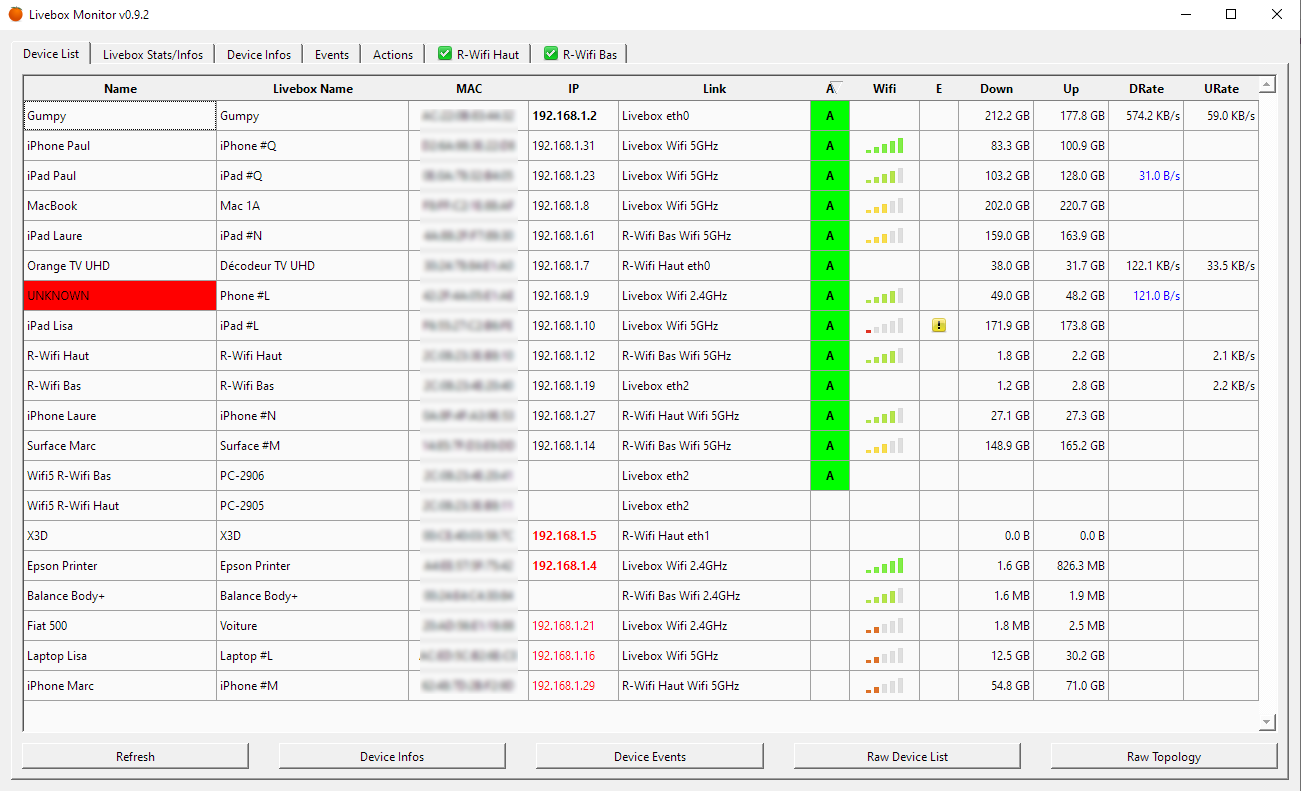
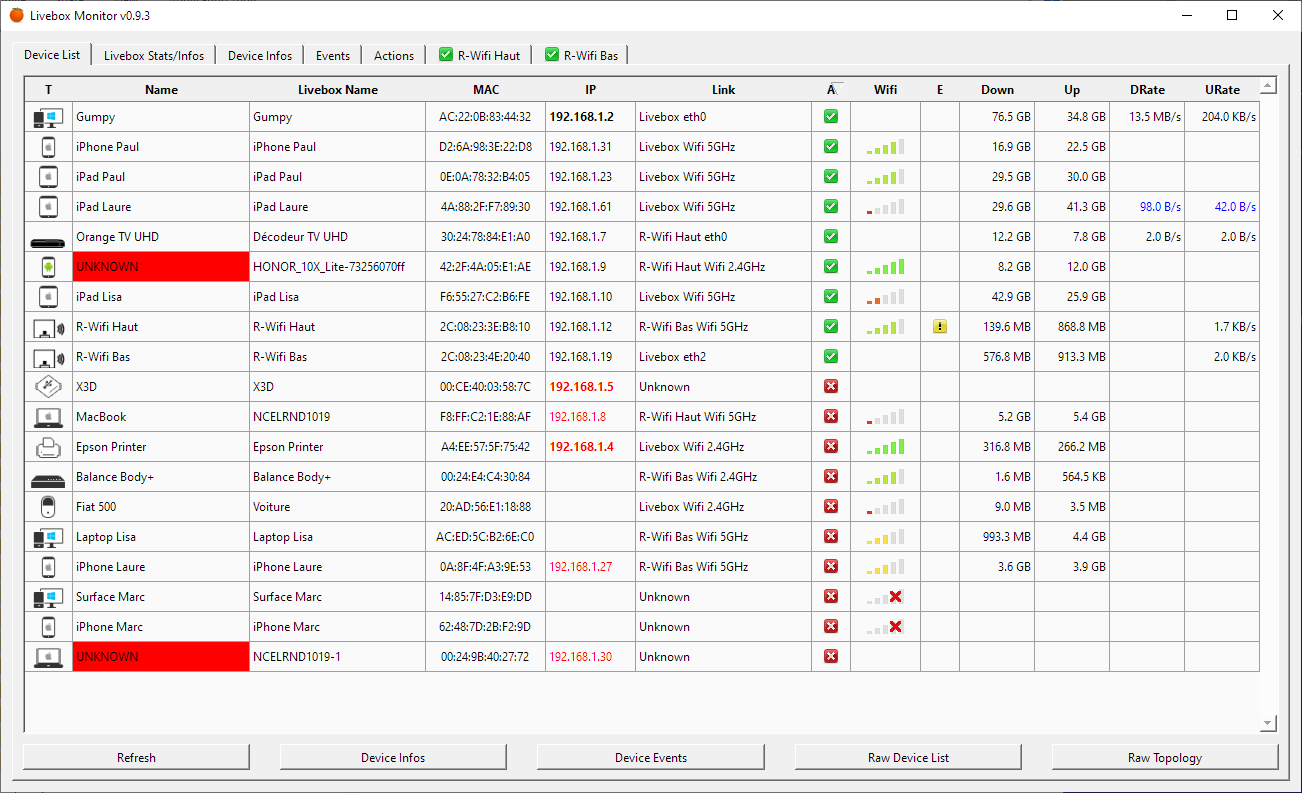
Release 0.9.3

diff --git a/__init__.py b/__init__.py
@@ -3,8 +3,8 @@
 __title__ = 'LiveboxMonitor'
 __description__ = 'Graphical user interface to monitor Livebox 5'
 __url__ = 'https://github.com/p-dor/LiveboxMonitor'
-__version__ = '0.9.2'
-__build__ = 0x000902
+__version__ = '0.9.3'
+__build__ = 0x000903
 __author__ = 'Pierre Dor'
 __author_email__ = 'dorpierre@orange.fr'
 __license__ = 'MIT'

diff --git a/README.md b/README.md
@@ -70,12 +70,13 @@ Un fichier de noms local offre la garanti de savoir si un appareil est vraiment 
 
 ### Liste
 La liste des appareils affiche les colonnes suivantes :
-- **Name** : nom local de l'appareil. Ce nom peut être attribué, changé ou supprimé via le bouton `Assign name...` de l'onglet `Device Infos`.
-- **Livebox Name** : nom de l'appareil tel que paramétré dans la Livebox et visible dans l'interface Web de la Livebox. Ce nom peut être attribué, changé ou supprimé via le bouton `Assign name...` de l'onglet `Device Infos`.
+- **T** : icône correspondant au type de l'appareil. Ce type peut être attribué ou changé via le bouton `Assign Type...` de l'onglet `Device Infos`.
+- **Name** : nom local de l'appareil. Ce nom peut être attribué, changé ou supprimé via le bouton `Assign Name...` de l'onglet `Device Infos`.
+- **Livebox Name** : nom de l'appareil tel que paramétré dans la Livebox et visible dans l'interface Web de la Livebox. Ce nom peut être attribué, changé ou supprimé via le bouton `Assign Name...` de l'onglet `Device Infos`.
 - **MAC** : adresse MAC, aussi appelée adresse physique de l'appareil.
 - **IP** : adresse IP v4 de l'appareil sur le LAN. Cette adresse s'affiche en caractères gras si cette adresse est réservée pour cet appareil dans la configuration DHCP de la Livebox. Et elle s'affiche en rouge si l'adresse n'est pas atteignable sur le réseau (unreacheable), typiquement lorsque l'appareil n'est pas actif.
 - **Link** : point de liaison de l'appareil avec le réseau. D'abord le nom de l'appareil, c'est à dire la Livebox elle-même ou le nom d'un des répéteurs Wifi Orange connectés, et ensuite l'interface sur cet appareil. `eth`  signifie une des prises Ethernet suivi du numéro de prise. `Wifi` signifie une connexion Wifi suivi par la bande de connexion, soit 2.4GHz soit 5GHz.
-- **A** : indique si l'appareil est actif ou nom par un A sur fond vert. Par défaut la liste est triée pour montrer d'abord les appareils actifs.
+- **A** : indique par une icône si l'appareil est actif ou non. Par défaut la liste est triée pour montrer d'abord les appareils actifs.
 - **Wifi** : qualité de la connexion Wifi.
 - **E** : indique par une icône avec un point d'exclamation ![Icone](http://p-dor.github.io/LiveboxMonitor/docs/Doc_Icon_Exclamation.png) lorsqu'un événement est reçu pour cet appareil. La liste détaillée des événements, ainsi que le contenu des événements eux-mêmes, peuvent être consulter via l'onglet `Events`.
 - **Down** : nombre d'octets reçus par l'appareil depuis le dernier démarrage de la Livebox.
@@ -134,7 +135,7 @@ L'onglet `Livebox Stats/Infos` propose les boutons suivants :
 ![Interface](http://p-dor.github.io/LiveboxMonitor/docs/Doc_DeviceInfos.png)
 
 La liste des appareils connus, sur la gauche, affiche les colonnes suivantes :
-- **Name** : nom local de l'appareil. Ce nom peut être attribué, changé ou supprimé via le bouton `Assign name...`.
+- **Name** : nom local de l'appareil. Ce nom peut être attribué, changé ou supprimé via le bouton `Assign Name...`.
 - **MAC** : adresse MAC, aussi appelée adresse physique de l'appareil.
 
 Lorsqu'un appareil est sélectionné dans cette liste ses informations détaillées s'affichent dans la liste de droite. Attributs notables :
@@ -172,7 +173,7 @@ L'onglet `Device Infos` propose les boutons suivants :
 ![Interface](http://p-dor.github.io/LiveboxMonitor/docs/Doc_Events.png)
 
 La liste des appareils connus, sur la gauche, affiche les colonnes suivantes :
-- **Name** : nom local de l'appareil. Ce nom peut être attribué, changé ou supprimé via le bouton `Assign name...` de l'onglet `Device Infos`.
+- **Name** : nom local de l'appareil. Ce nom peut être attribué, changé ou supprimé via le bouton `Assign Name...` de l'onglet `Device Infos`.
 - **MAC** : adresse MAC, aussi appelée adresse physique de l'appareil.
 
 Lorsqu'un appareil est sélectionné dans cette liste tous les événements reçus depuis le lancement du programme pour cet appareil s'affichent dans la liste de droite. La plupart de ces événements ont été interprétés par le programme pour mettre à jour l'interface dynamiquement, et cette liste permet d'avoir un historique. La taille de cet historique par appareil est limitée aux 100 dernières entrées (cette limite peut être ajustée facilement en modifiant la variable `MAX_EVENT_BUFFER_PER_DEVICE` du module `LmEventsTab.py`).
@@ -229,7 +230,7 @@ Les actions diverses, **Misc** :
 ![Interface](http://p-dor.github.io/LiveboxMonitor/docs/Doc_Repeater.png)
 
 Le programme créé dynamiquement un onglet par répéteur connecté. Si le répéteur a un nom local, celui-ci est utilisé dans l'onglet, sinon le nom par défaut est de type "RW #" suivit du numéro de répéteur dans l'ordre de détection.
-Les répéteurs font aussi parti des appareils connus, ils sont donc visibles dans l'onglet `Device List` et leur nom peut être changé via le bouton `Assign name...` de l'onglet `Device Infos`.
+Les répéteurs font aussi parti des appareils connus, ils sont donc visibles dans l'onglet `Device List` et leur nom peut être changé via le bouton `Assign Name...` de l'onglet `Device Infos`.
 
 Une icône dans le nom de l'onglet permet de connaitre l'état de la connexion avec le répéteur :
 - ![Icone](http://p-dor.github.io/LiveboxMonitor/docs/Doc_Icon_Cross.png) : le répéteur est inactif ou n'a pas d'adresse IP attribuée.
